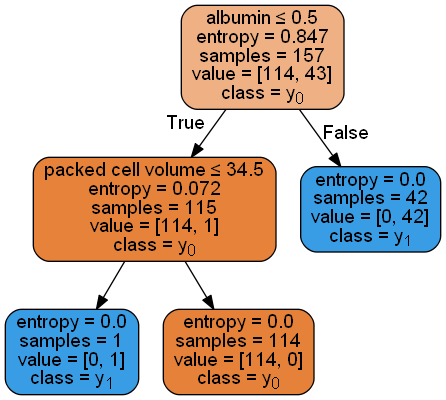
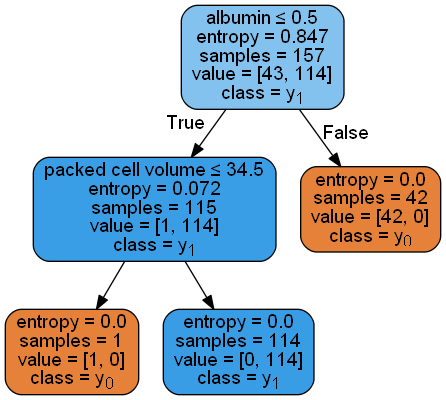
add decision tree without dropping NaN PS: class name still doesn't work

diff --git a/Kidney_C45/Kidney_C45.py b/Kidney_C45/Kidney_C45.py
@@ -33,23 +33,34 @@ data = data.loc[:, :'class']
 # we have to substitute the strings by numbers
 # normal/notpresent/no/poor/notckd => 0
 # abnormal/present/yes/good/ckd => 1
-to_replace = ['yes', 'no', 'present', 'notpresent', 'abnormal', 'normal', 'good', 'poor', '\tyes', '\tno',
-              'ckd', 'notckd']
-value = [1, 0, 1, 0, 1, 0, 1, 0, 1, 0, 1, 0]
+to_replace = ['yes', 'no', 'present', 'notpresent', 'abnormal', 'normal', 'good', 'poor', '\tyes', '\tno']
+value = [1, 0, 1, 0, 1, 0, 1, 0, 1, 0]
 data = data.replace(to_replace, value)
 
 # First approach: drop NaN
 data_drop = data.dropna()
 
-# Decision Tree
 clf = DecisionTreeClassifier('entropy')
 
 domain_drop = data_drop.loc[:, :'anemia']
 target_drop = data_drop.loc[:, 'class']
-target_drop = target_drop.astype('int')
+# target_drop = target_drop.astype('int')
 clf_tree_drop = clf.fit(domain_drop, target_drop)
-class_names = ['notckd', 'ckd']
+class_names_drop = ['notckd', 'ckd']
 dot_data_drop = export_graphviz(clf_tree_drop, out_file="Output\Tree_drop3.dot", feature_names=features[0:24],
                                 class_names=True, filled=True, rounded=True, special_characters=True)
 
 make_png('Output\Tree_drop3.dot', 'output\Tree_drop3.png')
+
+# Second approach: treat NaN as another possible value
+data_replace = data.fillna(-1)
+data_replace['class'].replace(['ckd\t', 0], ['ckd', 'unknown'], inplace=True)
+
+domain_replace = data_replace.loc[:, :'anemia']
+target_replace = data_replace.loc[:, 'class']
+clf_tree_replace = clf.fit(domain_replace, target_replace)
+class_names_replace = ['notckd', 'ckd', 'unknown']
+dot_data_replace = export_graphviz(clf_tree_replace, out_file="Output\Tree_replace.dot", feature_names=features[0:24],
+                                   class_names=True, filled=True, rounded=True, special_characters=True)
+
+make_png('Output\Tree_replace.dot', 'output\Tree_replace.png')
